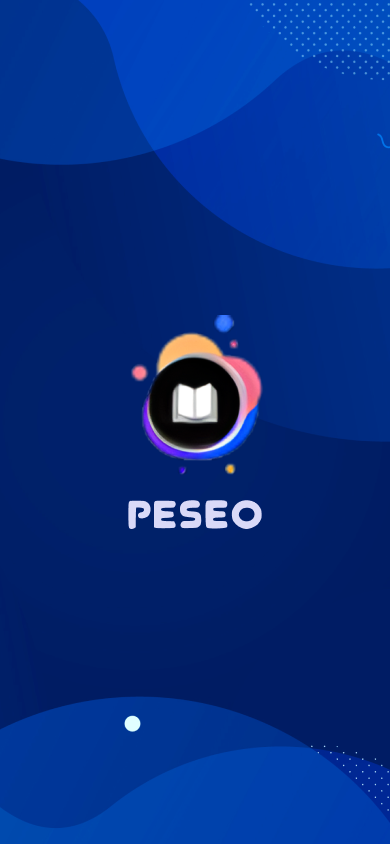
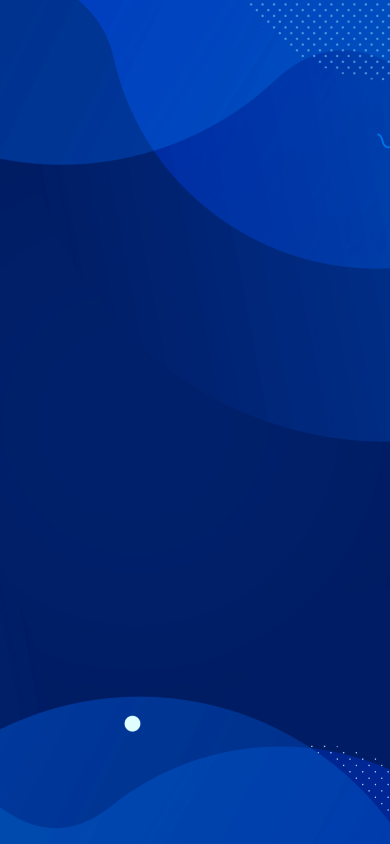
Login, Splash

Changed region(s): [[0.3077, 0.3697, 0.6769, 0.6469]]

diff --git a/src/view/InicialLogin.jsx b/src/view/InicialLogin.jsx
@@ -1,8 +1,74 @@
 import React from "react";
-import { SafeAreaView, View, Text } from "react-native";
+import { SafeAreaView, View, Text, ImageBackground, StyleSheet, Image, Pressable } from "react-native";
+import pgLogin from '../../assets/imgs/pgLogin.png'
+import comonStyles from "../comonStyles";
 
 export default props => {
-    <SafeAreaView>
-        <Text>Ola</Text>
-    </SafeAreaView>
+    return (
+        <SafeAreaView style={Style.container} >
+            <ImageBackground source={pgLogin} style={Style.img} >
+
+                <View style={Style.margintxt} >
+                    <Text style={Style.text} >Seja</Text>
+                    <Text style={Style.text} >Bem-Vindo(a)</Text>
+                    <Text style={Style.text} >A PESEO</Text>
+                </View>
+
+                <View style={Style.btn}>
+                    <Pressable onPress={() => props.navigation.navigate('Login')} >
+                        <Text style={Style.txt}>Continuar</Text>
+                    </Pressable>
+                </View>
+
+                <Pressable style={Style.botao} >
+                     <Text style={Style.txt} >Criar Conta</Text>
+                </Pressable>
+            </ImageBackground>
+        </SafeAreaView>
+    )
 }
+
+const Style = StyleSheet.create(
+    {
+        container: {
+            flex: 1,
+
+        },
+        img: {
+            flex: 1,
+            justifyContent: 'center',
+            alignItems: 'center',
+
+        },
+        btn: {
+            backgroundColor: comonStyles.colors.primary,
+            width: 350,
+            padding: 13,
+            borderRadius: 8,
+            marginTop: 150
+        },
+        txt: {
+            color: 'white',
+            marginLeft: 125,
+            fontSize: 15
+        },
+        text: {
+            color: comonStyles.colors.primary,
+            fontSize: 40,
+            fontFamily: comonStyles.fontFamily
+
+        },
+        margintxt: {
+            padding: 100,
+        },
+        botao:{
+           backgroundColor:'none',
+           borderWidth:1,
+           borderColor:'#FFFFFF',
+           width: 350,
+           padding:13,
+           marginTop:25,
+           borderRadius:8
+        }
+    }
+)

diff --git a/src/App.jsx b/src/App.jsx
@@ -1,14 +1,21 @@
 import React from 'react';
 import { NavigationContainer } from '@react-navigation/native';
-import { createStackNavigator } from '@react-navigation/stack';
+import { createNativeStackNavigator } from '@react-navigation/native-stack';
 import { SafeAreaView } from 'react-native';
+import Splash from './view/Splash';
+import InicialLogin from './view/InicialLogin';
+import Login from './view/Login';
 
-const Stack = createStackNavigator();
+const Stack = createNativeStackNavigator();
 export default props => {
     return(
-        <SafeAreaView>
+        <SafeAreaView style={{flex:1}}>
             <NavigationContainer>
-                
+                <Stack.Navigator initialRouteName='Splash' >
+                <Stack.Screen name='Splash' component={Splash} options={{headerShown: false,}} />
+                <Stack.Screen name='InicialLogin' component={InicialLogin} options={{headerShown: false,}} />
+                <Stack.Screen name='Login' component={Login} />
+                </Stack.Navigator>
             </NavigationContainer>
         </SafeAreaView>
     )

diff --git a/src/view/Splash.jsx b/src/view/Splash.jsx
@@ -16,7 +16,7 @@ export default props => {
 
                 <View style={Style.btn}>
                     <Pressable onPress={() => props.navigation.navigate('InicialLogin')} >
-                        <Text style={Style.txt}>Continua</Text>
+                        <Text style={Style.txt}>Continuar</Text>
                     </Pressable>
                 </View>
 
@@ -45,15 +45,14 @@ const Style = StyleSheet.create(
         },
         btn: {
             backgroundColor: comonStyles.colors.primary,
-            padding: 5,
-            width: 270,
-            padding: 10,
+            padding: 13,
+            width: 350,
             borderRadius: 8
         },
         txt: {
             color: 'white',
-            marginLeft: 82,
-            fontSize: 18
+            marginLeft: 125,
+            fontSize: 18,
         }
     }
 )

diff --git a/src/view/Login.jsx b/src/view/Login.jsx
@@ -1,0 +1,11 @@
+import React from "react";
+import { SafeAreaView, Text, ImageBackground, StyleSheet, Image, Pressable, View } from "react-native";
+import comonStyles from "../comonStyles";
+
+export default props => {
+    return(
+        <SafeAreaView>
+            
+        </SafeAreaView>
+    )
+}

diff --git a/index.js b/index.js
@@ -4,7 +4,7 @@
 
 import {AppRegistry} from 'react-native';
 import 'react-native-gesture-handler';
-import App from './src/view/Splash';
+import App from './src/App';
 import {name as appName} from './app.json';
 
 AppRegistry.registerComponent(appName, () => App);
